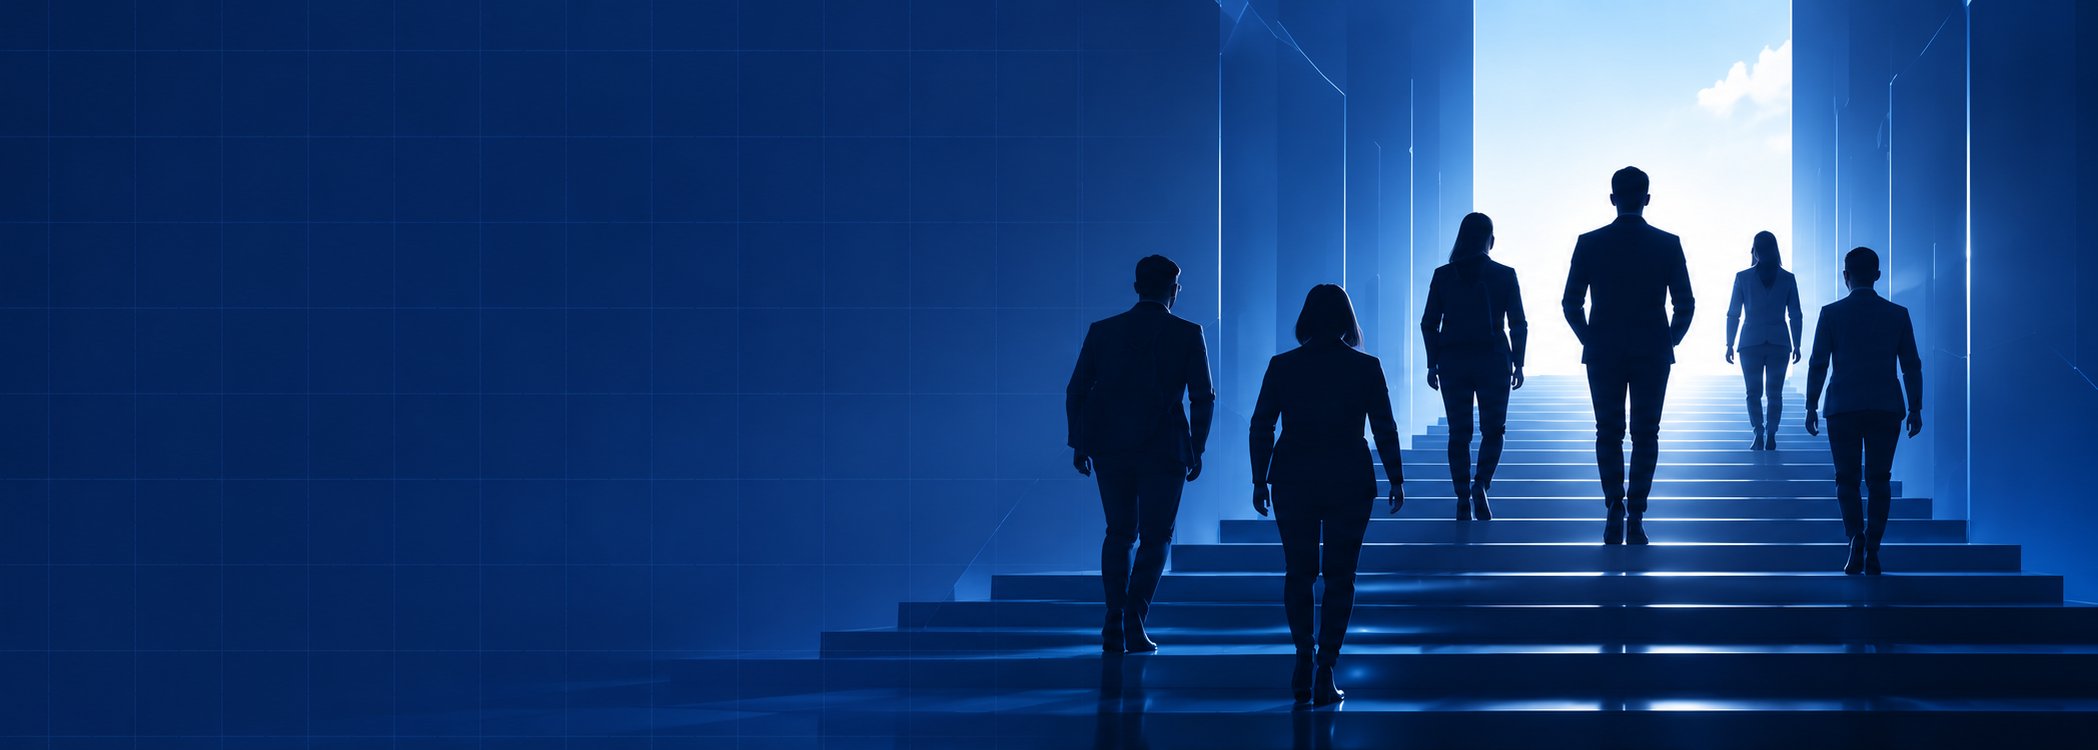
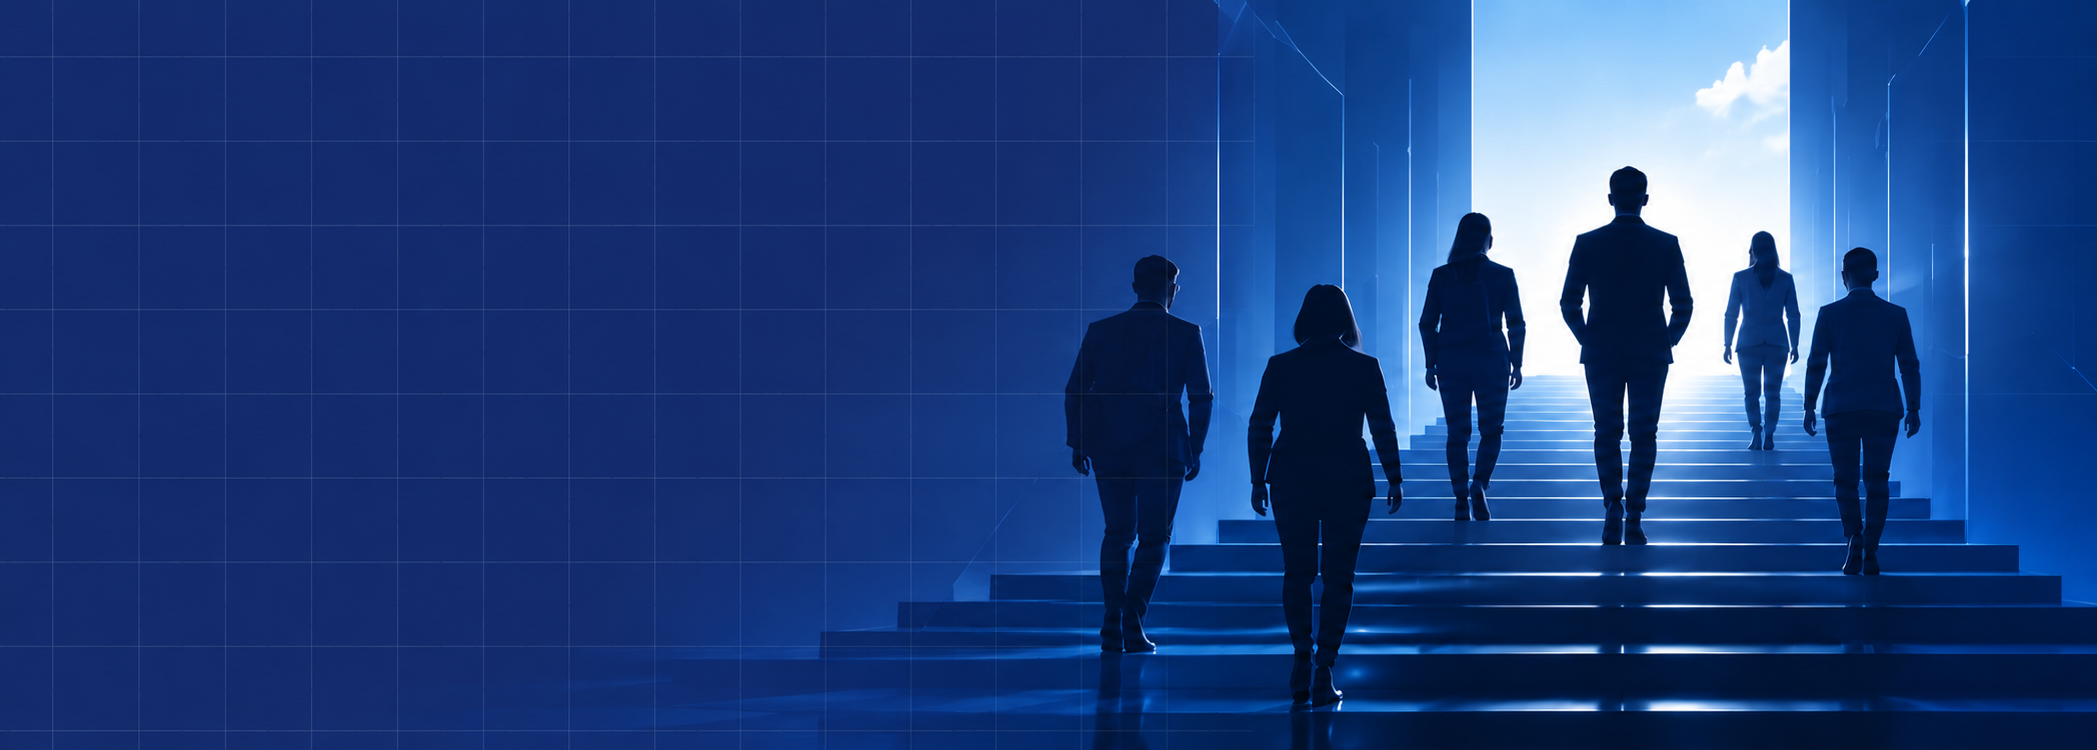
Fix minor/major/critical issues to handle responsiveness

diff --git a/apps/main-site/src/sections/sectors/VerticalsSection.jsx b/apps/main-site/src/sections/sectors/VerticalsSection.jsx
@@ -27,12 +27,8 @@ function SectorImage({ image, label, height = 140 }) {
 		return (
 			<div
 				className="flex items-center justify-center rounded-xl bg-brand-light"
-				style={{ height, marginBottom: "1.5rem" }}
+				style={{ aspectRatio: height >= 200 ? "16 / 6" : "16 / 9", marginBottom: "1.5rem" }}
 			>
-				<div className="text-center">
-					<CameraIcon className="mx-auto mb-1.5 h-6 w-6 text-brand-muted/40" />
-					<p className="text-xs text-brand-muted/50">{label}</p>
-				</div>
 			</div>
 		);
 	}
@@ -41,7 +37,7 @@ function SectorImage({ image, label, height = 140 }) {
 		<div
 			style={{
 				position: "relative",
-				height,
+				aspectRatio: "2048 / 887",
 				marginBottom: "1.5rem",
 				borderRadius: "0.75rem",
 				overflow: "hidden",
@@ -133,19 +129,8 @@ function Clients({ clients }) {
 	);
 }
 
-function getColCount(n) {
-	if (n <= 3) return n;
-	if (n === 4) return 2;
-	return 3;
-}
-
 export default function VerticalsSection({ data }) {
 	const { eyebrow, title, titleHighlight, subtitle, items = [] } = data ?? {};
-
-	const restCount = items.length - 1;
-	const cols = restCount > 0 ? getColCount(restCount) : 1;
-	const lastRowItems = restCount % cols || cols;
-	const isLastAlone = restCount > 0 && lastRowItems === 1;
 
 	return (
 		<section className="bg-brand-light px-4 py-20 sm:px-8">
@@ -160,15 +145,16 @@ export default function VerticalsSection({ data }) {
 					<p className="mx-auto mt-4 max-w-2xl text-brand-muted">{subtitle}</p>
 				</div>
 
-				<div className="grid grid-cols-1 gap-6 sm:grid-cols-2 lg:grid-cols-3">
+				<div className="grid grid-cols-1 gap-6 lg:grid-cols-2 2xl:grid-cols-4">
 					{items.map((item, i) => {
 						const isFirst = i === 0;
 						const isLast = i === items.length - 1;
-						const spanFull = isFirst || (isLast && isLastAlone);
+						const spanFull = isFirst;
 
 						return (
 							<div
 								key={item.key}
+								id={item.key}
 								className="rounded-2xl border border-t-4 border-black/5 border-t-transparent bg-white transition-all hover:border-t-brand-red hover:shadow-md"
 								style={{
 									gridColumn: spanFull ? "1 / -1" : undefined,

diff --git a/apps/main-site/src/sections/home/WhatWeDoSection.jsx b/apps/main-site/src/sections/home/WhatWeDoSection.jsx
@@ -1,3 +1,4 @@
+import { Link } from "react-router-dom";
 import Icon from "../../components/shared/Icon.jsx";
 
 export default function WhatWeDoSection({ data }) {
@@ -18,13 +19,21 @@ export default function WhatWeDoSection({ data }) {
 					{cards.map((card) => (
 						<div
 							key={card.title}
-							className="rounded-2xl border border-t-4 border-black/5 border-t-transparent bg-brand-light p-5 sm:p-8 transition-all hover:border-t-brand-red hover:shadow-md"
+							className="rounded-2xl border border-t-4 border-black/5 border-t-transparent bg-brand-light p-5 sm:p-8 transition-all hover:border-t-brand-red hover:shadow-md flex flex-col"
 						>
 							<div className="mb-4 flex h-10 w-10 items-center justify-center rounded-xl bg-brand-blue/10 text-brand-blue">
 								<Icon name={card.icon} className="h-5 w-5" />
 							</div>
 							<h3 className="font-heading font-semibold text-brand-text">{card.title}</h3>
-							<p className="mt-2 text-sm leading-relaxed text-brand-muted">{card.description}</p>
+							<p className="mt-2 text-sm leading-relaxed text-brand-muted flex-1">{card.description}</p>
+							{card.href && (
+								<Link
+									to={card.href}
+									className="mt-4 text-sm font-semibold text-brand-red hover:underline"
+								>
+									Read more →
+								</Link>
+							)}
 						</div>
 					))}
 				</div>

diff --git a/apps/main-site/src/sections/silbo/CtaBannerSection.jsx b/apps/main-site/src/sections/silbo/CtaBannerSection.jsx
@@ -6,13 +6,10 @@ export default function CtaBannerSection({ data }) {
 	return (
 		<section className="bg-white" style={{ padding: "3rem 2rem" }}>
 			<div style={{ maxWidth: 1536, margin: "0 auto" }}>
-				<div
-					className="px-6 py-12 text-center text-white sm:px-16 sm:py-20"
-					style={{
-						background: "linear-gradient(to right, #1B2A6B, #7e22ce, #E63946)",
-						borderRadius: 24,
-					}}
-				>
+					<div
+						className="bg-[#C1121F] px-6 py-12 text-center text-white sm:px-16 sm:py-20"
+						style={{ borderRadius: 24 }}
+					>
 					<h2 className="font-heading text-3xl font-bold sm:text-4xl">{title}</h2>
 					<p className="mx-auto mt-4 max-w-xl" style={{ color: "rgba(255,255,255,0.75)" }}>
 						{subtitle}

diff --git a/apps/main-site/src/sections/careers/CtaBannerSection.jsx b/apps/main-site/src/sections/careers/CtaBannerSection.jsx
@@ -7,11 +7,8 @@ export default function CtaBannerSection({ data }) {
 		<section className="bg-white" style={{ padding: "3rem 2rem" }}>
 			<div style={{ maxWidth: 1536, margin: "0 auto" }}>
 				<div
-					className="px-6 py-12 text-center text-white sm:px-16 sm:py-20"
-					style={{
-						background: "linear-gradient(to right, #1B2A6B, #7e22ce, #E63946)",
-						borderRadius: 24,
-					}}
+					className="bg-[#C1121F] px-6 py-12 text-center text-white sm:px-16 sm:py-20"
+					style={{ borderRadius: 24 }}
 				>
 					<h2 className="font-heading text-3xl font-bold sm:text-4xl">{title}</h2>
 					<p className="mx-auto mt-4 max-w-xl" style={{ color: "rgba(255,255,255,0.75)" }}>{subtitle}</p>

diff --git a/apps/main-site/src/sections/products/CtaBannerSection.jsx b/apps/main-site/src/sections/products/CtaBannerSection.jsx
@@ -7,11 +7,8 @@ export default function CtaBannerSection({ data }) {
 		<section className="bg-white" style={{ padding: "3rem 2rem" }}>
 			<div style={{ maxWidth: 1536, margin: "0 auto" }}>
 				<div
-					className="px-6 py-12 text-center text-white sm:px-16 sm:py-20"
-					style={{
-						background: "linear-gradient(to right, #1B2A6B, #7e22ce, #E63946)",
-						borderRadius: 24,
-					}}
+					className="bg-[#C1121F] px-6 py-12 text-center text-white sm:px-16 sm:py-20"
+					style={{ borderRadius: 24 }}
 				>
 					<h2 className="font-heading text-3xl font-bold sm:text-4xl">{title}</h2>
 					<p className="mx-auto mt-4 max-w-xl" style={{ color: "rgba(255,255,255,0.75)" }}>

diff --git a/apps/main-site/src/sections/sectors/CtaBannerSection.jsx b/apps/main-site/src/sections/sectors/CtaBannerSection.jsx
@@ -7,11 +7,8 @@ export default function CtaBannerSection({ data }) {
 		<section className="bg-white" style={{ padding: "3rem 2rem" }}>
 			<div style={{ maxWidth: 1536, margin: "0 auto" }}>
 				<div
-					className="px-6 py-12 text-center text-white sm:px-16 sm:py-20"
-					style={{
-						background: "linear-gradient(to right, #1B2A6B, #7e22ce, #E63946)",
-						borderRadius: 24,
-					}}
+					className="bg-[#C1121F] px-6 py-12 text-center text-white sm:px-16 sm:py-20"
+					style={{ borderRadius: 24 }}
 				>
 					<h2 className="font-heading text-3xl font-bold sm:text-4xl">{title}</h2>
 					<p className="mx-auto mt-4 max-w-xl" style={{ color: "rgba(255,255,255,0.75)" }}>

diff --git a/apps/main-site/src/sections/home/CtaBannerSection.jsx b/apps/main-site/src/sections/home/CtaBannerSection.jsx
@@ -6,7 +6,7 @@ export default function CtaBannerSection({ data }) {
 	return (
 		<section className="bg-brand-light px-4 py-12 sm:px-8">
 			<div className="mx-auto max-w-screen-2xl">
-				<div className="rounded-3xl bg-gradient-to-r from-brand-blue via-purple-700 to-brand-red px-6 py-10 text-center text-white sm:px-16 sm:py-16">
+				<div className="rounded-3xl bg-[#C1121F] px-6 py-10 text-center text-white sm:px-16 sm:py-16">
 					<h2 className="font-heading text-3xl font-bold sm:text-4xl">{title}</h2>
 					<p className="mx-auto mt-4 max-w-xl text-white/75">{subtitle}</p>
 					<div className="mt-10 flex flex-wrap justify-center gap-4">

diff --git a/apps/main-site/src/App.jsx b/apps/main-site/src/App.jsx
@@ -25,10 +25,20 @@ const Terms = lazy(() => import("./pages/Terms.jsx"));
 const NotFound = lazy(() => import("./pages/NotFound.jsx"));
 
 function ScrollToTop() {
-	const { pathname } = useLocation();
-	useEffect(() => { window.scrollTo(0, 0); }, [pathname]);
+	const { pathname, hash } = useLocation();
+	useEffect(() => {
+		if (hash) {
+			setTimeout(() => {
+				const el = document.getElementById(hash.slice(1));
+				if (el) el.scrollIntoView({ behavior: "smooth" });
+			}, 100);
+		} else {
+			window.scrollTo(0, 0);
+		}
+	}, [pathname, hash]);
 	return null;
 }
+
 
 function PageLoader() {
 	return (

diff --git a/apps/main-site/src/sections/products/SoftwarePlatformsSection.jsx b/apps/main-site/src/sections/products/SoftwarePlatformsSection.jsx
@@ -25,7 +25,7 @@ export default function SoftwarePlatformsSection({ data }) {
 	const featuredImg = featured ? (Array.isArray(featured.image) ? featured.image[0] : featured.image) : null;
 
 	return (
-		<section className="bg-white px-4 py-20 sm:px-8">
+		<section id="software" className="bg-white px-4 py-20 sm:px-8">
 			<div className="mx-auto max-w-screen-2xl">
 				<div className="mb-12 text-center">
 					<p className="mb-3 text-[10px] font-semibold tracking-widest text-brand-red uppercase">{eyebrow}</p>

diff --git a/apps/main-site/src/sections/products/HardwarePortfolioSection.jsx b/apps/main-site/src/sections/products/HardwarePortfolioSection.jsx
@@ -33,7 +33,7 @@ export default function HardwarePortfolioSection({ data }) {
 	const { eyebrow, title, subtitle, items = [] } = data ?? {};
 
 	return (
-		<section className="bg-brand-light px-4 py-20 sm:px-8">
+		<section id="hardware" className="bg-brand-light px-4 py-20 sm:px-8">
 			<div className="mx-auto max-w-screen-2xl">
 				<div className="mb-12 text-center">
 					<p className="mb-3 text-[10px] font-semibold tracking-widest text-brand-red uppercase">{eyebrow}</p>

diff --git a/apps/main-site/src/sections/products/HeroSection.jsx b/apps/main-site/src/sections/products/HeroSection.jsx
@@ -28,6 +28,7 @@ export default function HeroSection({ data }) {
 
 	return (
 		<section
+			id="oem"
 			className="relative bg-brand-blue px-4 py-16 text-white sm:px-8 lg:py-24"
 			style={{
 				backgroundImage: `
